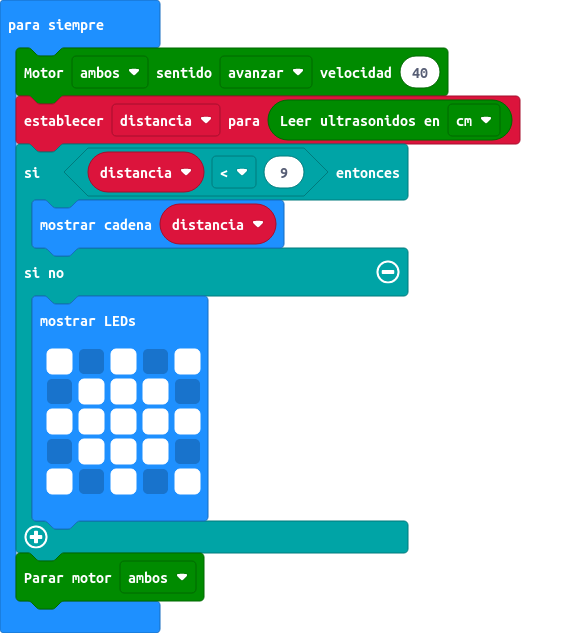
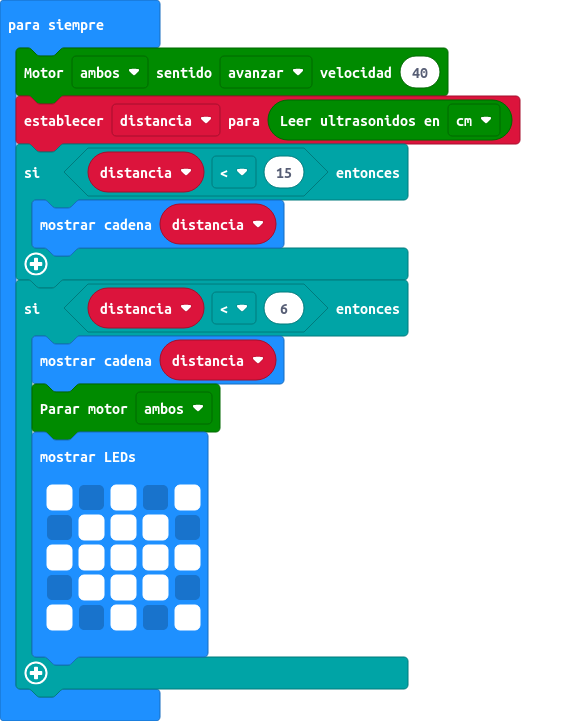
Actualizar main.blocks, main.ts

diff --git a/main.ts b/main.ts
@@ -2,9 +2,12 @@ let distancia = 0
 basic.forever(function () {
     maqueen.motorRun(maqueen.Motors.All, maqueen.Dir.CW, 40)
     distancia = maqueen.Ultrasonic(PingUnit.Centimeters)
-    if (distancia < 9) {
+    if (distancia < 15) {
         basic.showString("" + (distancia))
-    } else {
+    }
+    if (distancia < 6) {
+        basic.showString("" + (distancia))
+        maqueen.motorStop(maqueen.Motors.All)
         basic.showLeds(`
             # . # . #
             . # # # .
@@ -13,5 +16,4 @@ basic.forever(function () {
             # . # . #
             `)
     }
-    maqueen.motorStop(maqueen.Motors.All)
 })
